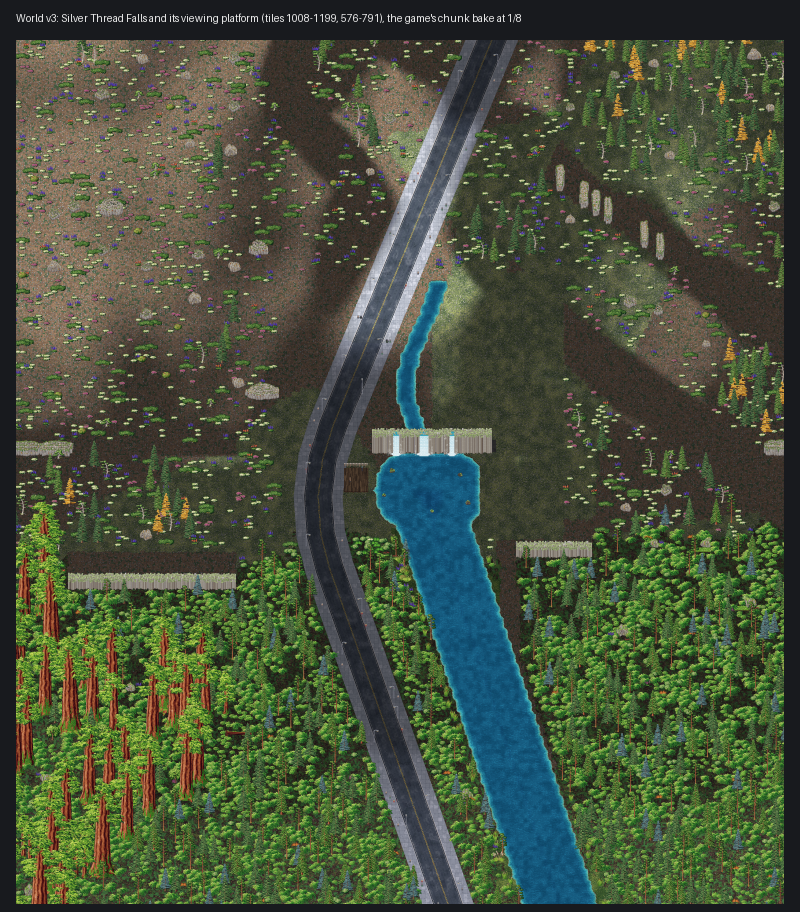
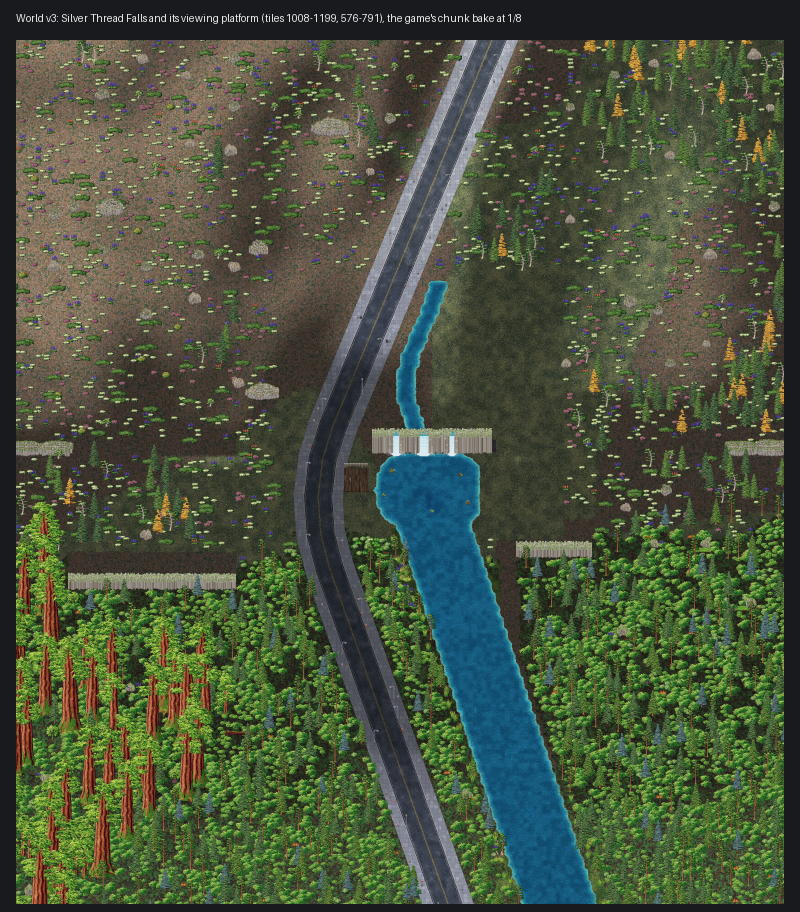
World v3 8.22: the falls' and Dusty Hollow's pictures re-baked after the fixes (the gorge off the falls, the desert's red rock bands)
Claude-Session: https://claude.ai/code/session_015TdwbASoLBxZr1VoEZGToX

diff --git a/docs/WORLD-V3.md b/docs/WORLD-V3.md
@@ -3994,19 +3994,20 @@ foot and its rim a cliff band; Silver Thread Falls' land above the band 10 m ove
 the North Ridge's crest 40 m over its foot, the gorge's floor 15 m under its sides; Metro City flat.
 
 **The pictures** (`tools/world3-world-map.mjs --sample 0 --region 8,1 --towns --only hollow,silverfalls`;
-`docs/world-v3-world-r8-1.png`, `docs/world-v3-town-hollow.png`, `docs/world-v3-town-silverfalls.png` - baked before the
-last two fixes below). What looks right: the lookout's mesa is a table - the lookout and the arch on its top, the jeep
+`docs/world-v3-world-r8-1.png` - baked before the last two fixes below - `docs/world-v3-town-hollow.png`,
+`docs/world-v3-town-silverfalls.png`). What looks right: the lookout's mesa is a table - the lookout and the arch on its top, the jeep
 track climbing through a gap in its south rim, a talus slope in shade round its south-east foot; the butte west of it the
 same; the falls' escarpment either side of the pool with its basalt faces, Falls Pass Road through it on its grade. What
 looks wrong:
-- **The tables read as rings:** the band's ground was dark grey scree (red rock now, not re-baked), the faces are the
+- **The tables read as rings:** the band's ground is red rock (the region picture's dark grey scree is from before), the faces are the
   `cliff` model's granite (the desert wants a sandstone face), and only the south rims have faces: the north, east and
   west rims are their rubble and the hillshade. The tops are the plain's colour (a flat top is not shaded; it wants its
   own ground - bare rock, sparse scrub - or a rim's shadow).
 - **8.8's small red mesas still stand** across the desert and on the tables' tops (`dress3`): they want to go, or to
   become boulders, now that the tables are there.
-- **The old gorge line crossed Silver Thread Falls** (the broad dark bands across the view): it is moved east, clear of
-  the falls, since (not re-baked).
+- **The old gorge line crossed Silver Thread Falls** in the first bake (broad dark bands across the view): moved east,
+  clear of the falls; the falls' picture now shows the escarpment's slopes in shade and the band's faces. A thin line of
+  red rock west of the lookout's mesa (`-hollow.png`) is a one-tile band where a slope steepens by a track: to look at.
 - At 1/8 the hillshade hardly reads **under trees and crops**: North Cape's headland is under the redwoods' canopy (only
   the ground is shaded), Lookout Hill under the orchard's rows (`--only northcape,kestrel`; not kept in docs).
 
